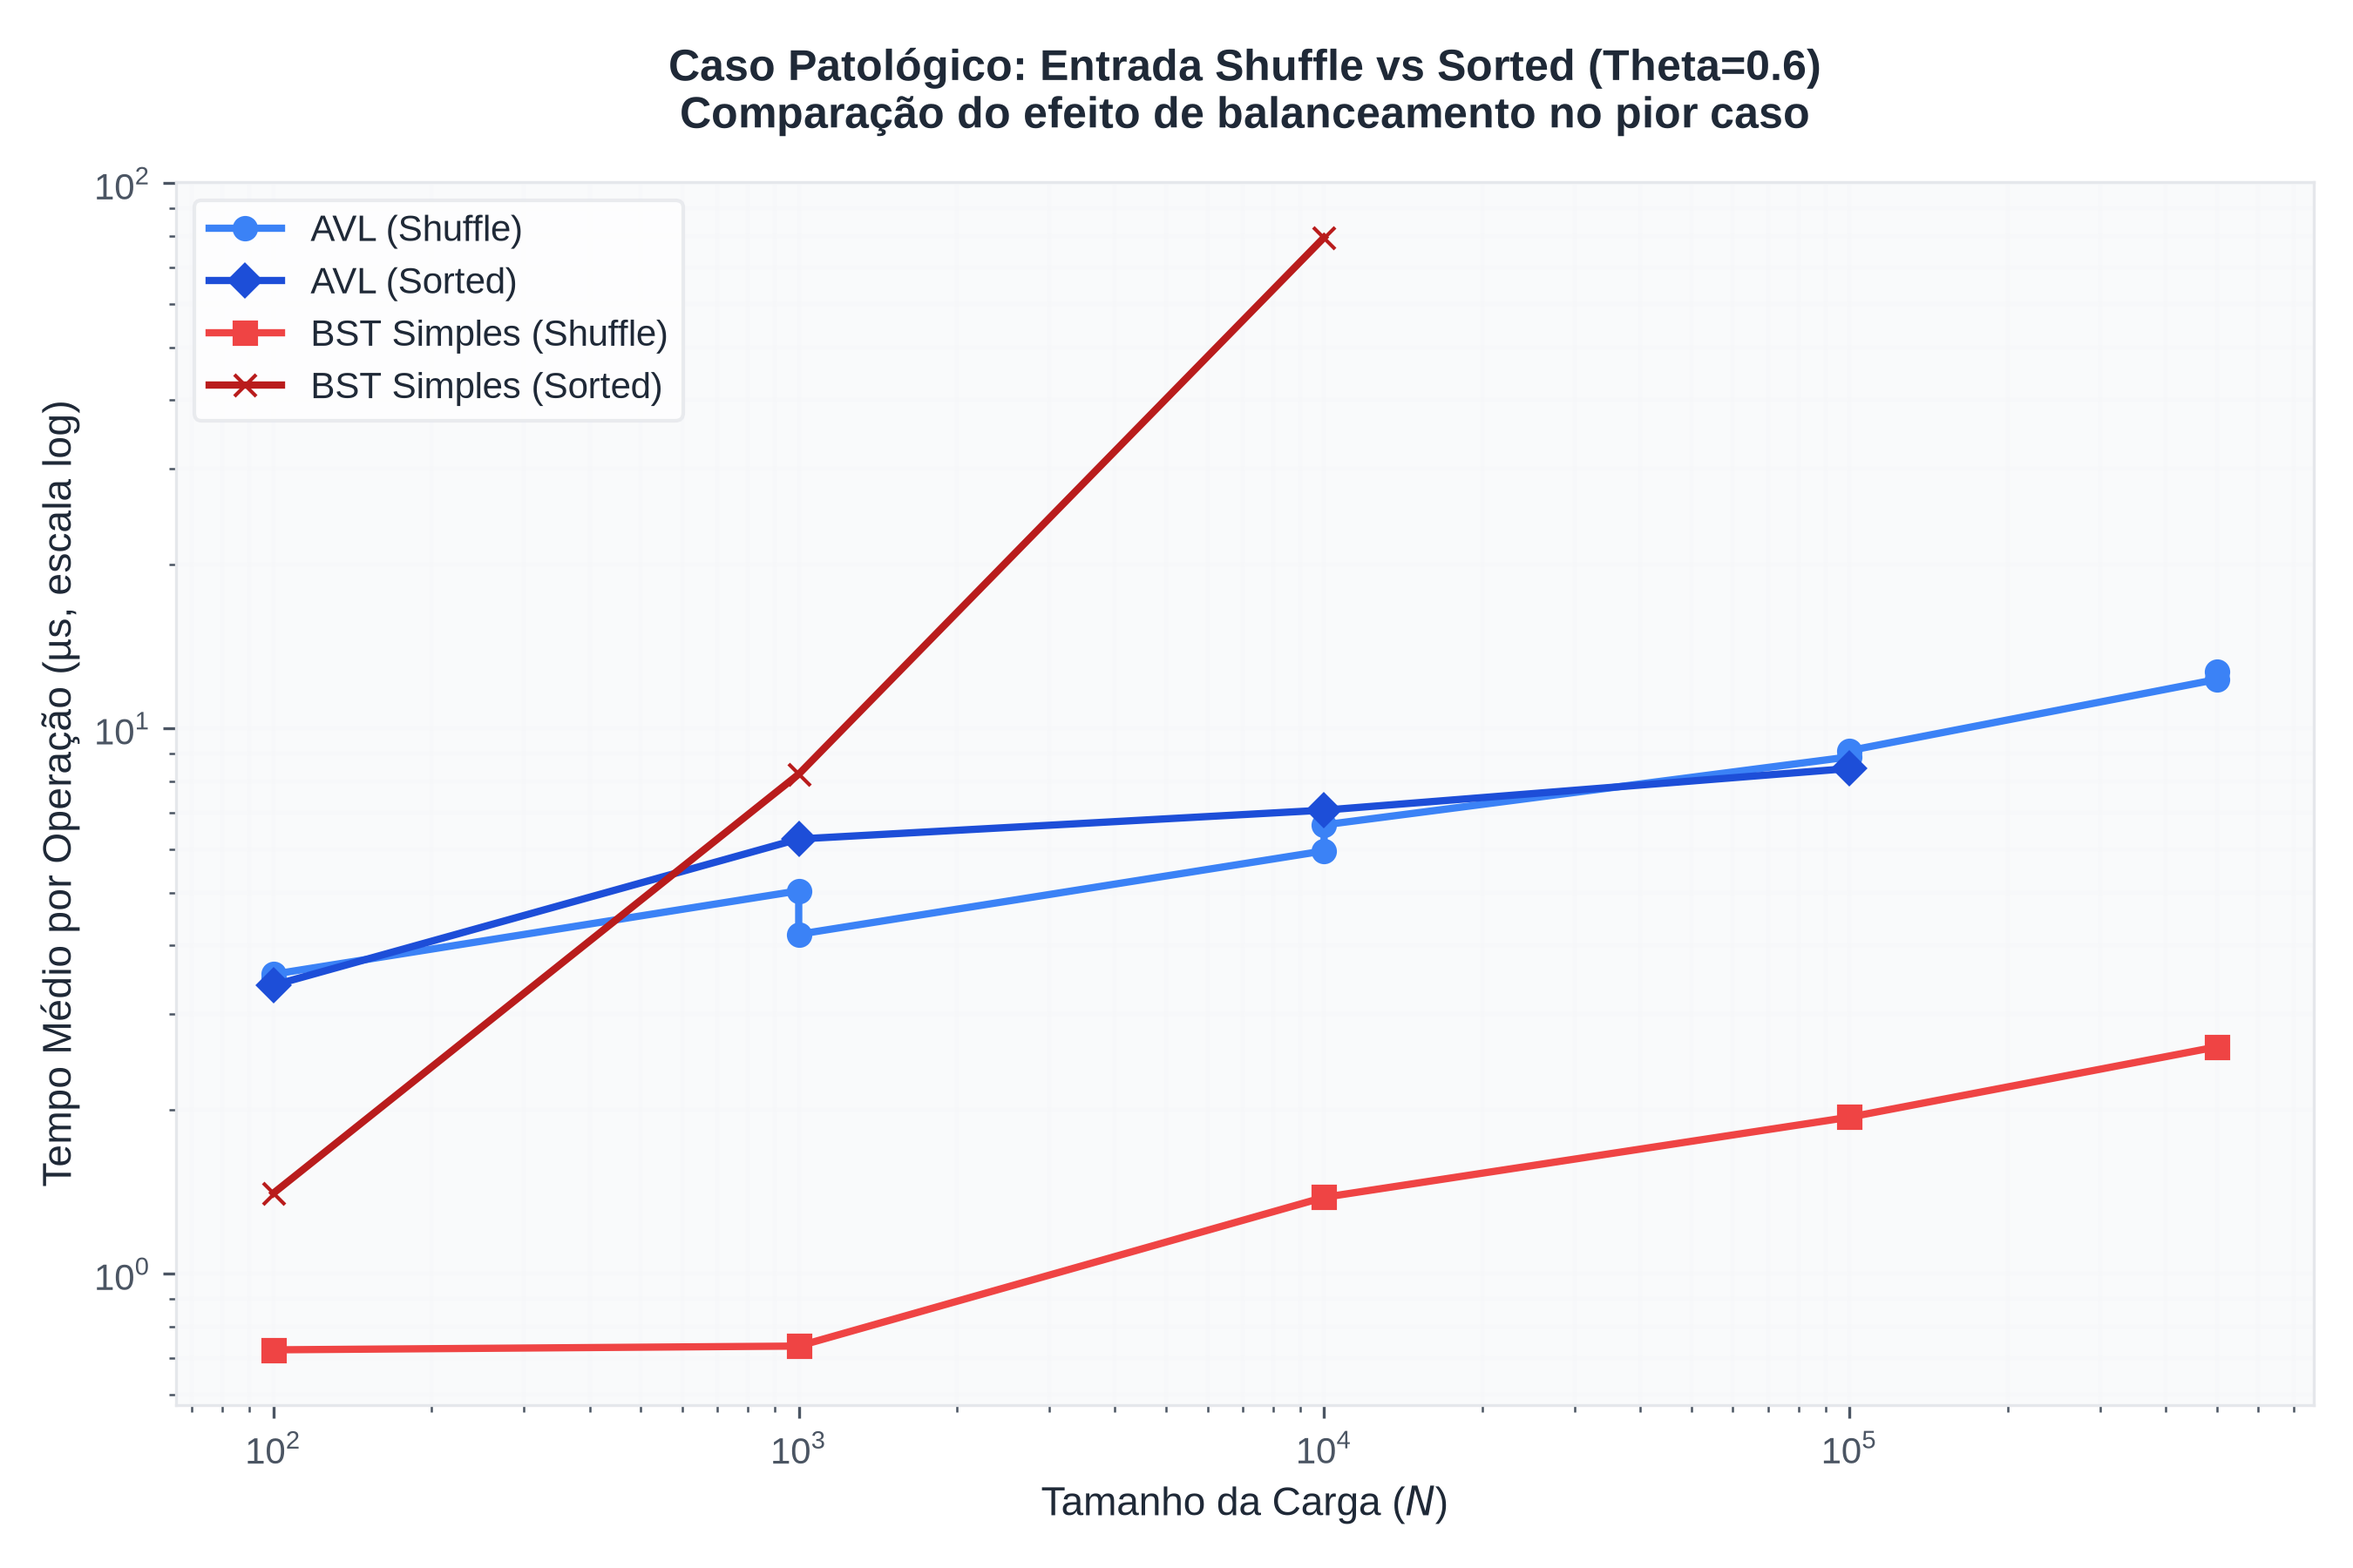
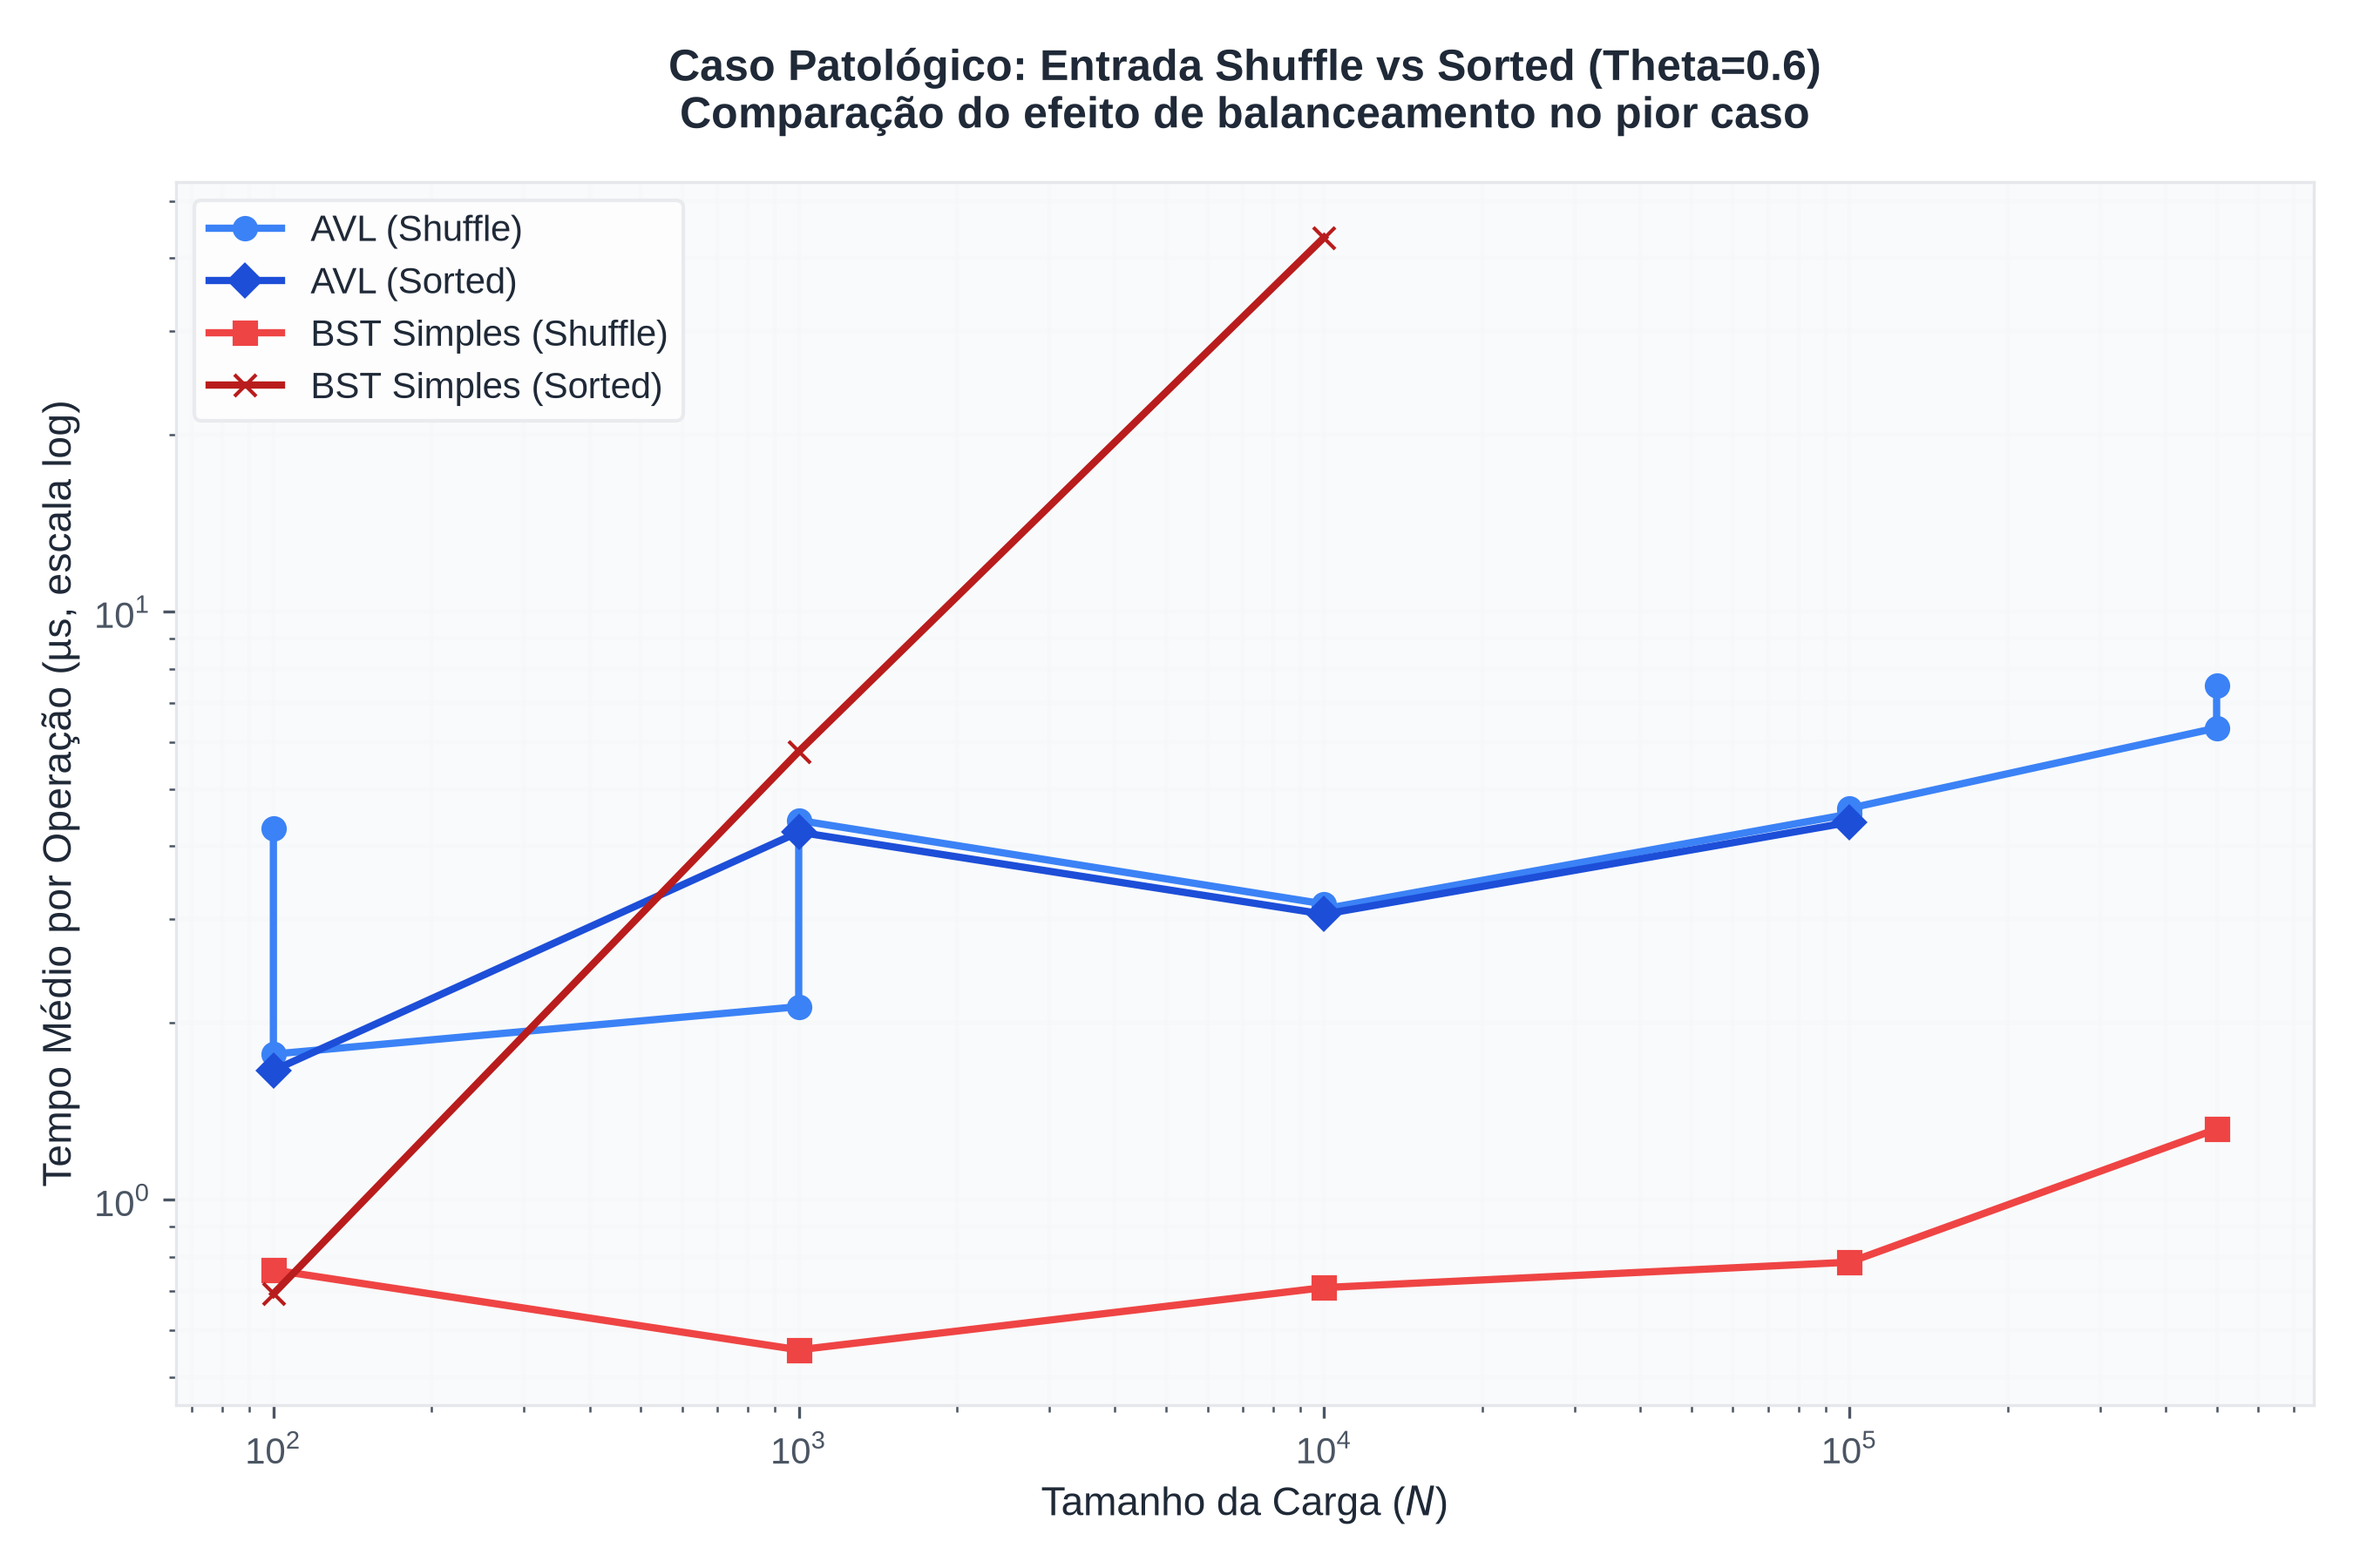
doc: update benchmark report and charts with new execution results

diff --git a/Report/relatorio.md b/Report/relatorio.md
@@ -27,25 +27,25 @@ A tabela abaixo apresenta os tempos médios de operação (em microssegundos, µ
 
 | Estrutura | Carga ($N$) | Tempo Médio (µs) | Mediana p50 (µs) | Percentil p99 (µs) |
 | :--- | :--- | :--- | :--- | :--- |
-| **AVL** | 100 | 3.47 | 3.83 | 6.80 |
-| **BST** | 100 | 1.23 | 1.09 | 5.94 |
-| **AVL** | 1.000 | 4.70 | 5.40 | 9.26 |
-| **BST** | 1.000 | 0.76 | 0.71 | 1.71 |
-| **AVL** | 10.000 | 8.02 | 8.13 | 22.91 |
-| **BST** | 10.000 | 1.53 | 1.23 | 3.45 |
-| **AVL** | 100.000 | 8.86 | 10.54 | 17.82 |
-| **BST** | 100.000 | 1.54 | 1.38 | 3.34 |
-| **AVL** | 500.000 | 12.31 | 14.24 | 27.81 |
-| **BST** | 500.000 | 2.65 | 2.31 | 6.28 |
+| **AVL** | 100 | 1.77 | 1.91 | 3.69 |
+| **BST** | 100 | 0.76 | 0.58 | 5.02 |
+| **AVL** | 1.000 | 2.13 | 2.45 | 4.80 |
+| **BST** | 1.000 | 0.56 | 0.50 | 1.46 |
+| **AVL** | 10.000 | 3.19 | 3.72 | 6.62 |
+| **BST** | 10.000 | 0.71 | 0.51 | 2.68 |
+| **AVL** | 100.000 | 4.63 | 5.53 | 9.69 |
+| **BST** | 100.000 | 0.78 | 0.69 | 1.59 |
+| **AVL** | 500.000 | 7.49 | 7.84 | 25.27 |
+| **BST** | 500.000 | 1.32 | 1.09 | 3.04 |
 
 #### Detalhamento por Operação ($N = 500.000$):
-- **AVL:** Inserção = 16.52 µs, Remoção = 15.73 µs, Busca = 2.68 µs
-- **BST:** Inserção = 2.88 µs, Remoção = 2.84 µs, Busca = 2.14 µs
+- **AVL:** Inserção = 9.96 µs, Remoção = 9.48 µs, Busca = 1.83 µs
+- **BST:** Inserção = 1.44 µs, Remoção = 1.41 µs, Busca = 1.05 µs
 
 ![Desempenho por Escala](scale_comparison.png)
 
 **Discussão Teoria vs. Prática:**
-Teoricamente, ambas as estruturas apresentam complexidade $O(\log N)$ para todas as operações quando as entradas estão distribuídas aleatoriamente. Contudo, na prática, a **BST Simples é significativamente mais rápida** (cerca de 4.5x a 5x mais rápida) no caso médio.
+Teoricamente, ambas as estruturas apresentam complexidade $O(\log N)$ para todas as operações quando as entradas estão distribuídas aleatoriamente. Contudo, na prática, a **BST Simples é significativamente mais rápida** (cerca de 5.5x a 6x mais rápida) no caso médio.
 Isso ocorre devido à diferença gritante na **constante multiplicativa**:
 1. A AVL precisa recalcular e atualizar a altura (`height`), tamanho da subárvore (`size`) e a soma acumulada (`sum`) para cada nó visitado durante o caminho de retorno da recursão.
 2. A AVL precisa realizar testes de fator de balanceamento e aplicar rotações (simples ou duplas), o que exige múltiplas atribuições de ponteiros adicionais.
@@ -58,13 +58,13 @@ Quando as chaves de entrada são fornecidas em ordem crescente (`sorted`), a BST
 
 | Estrutura | Carga ($N$) | Ordenação | Tempo Médio (µs) | Mediana p50 (µs) | Percentil p99 (µs) |
 | :--- | :--- | :--- | :--- | :--- | :--- |
-| **AVL** | 100 | sorted | 3.32 | 4.25 | 5.73 |
-| **BST** | 100 | sorted | 2.44 | 2.26 | 5.42 |
-| **AVL** | 1.000 | sorted | 6.39 | 7.96 | 10.94 |
-| **BST** | 1.000 | sorted | 14.03 | 9.79 | 67.12 |
-| **AVL** | 10.000 | sorted | 8.15 | 10.44 | 13.99 |
-| **BST** | 10.000 | sorted | 77.50 | 64.87 | 200.21 |
-| **AVL** | 100.000 | sorted | 8.55 | 10.31 | 17.80 |
+| **AVL** | 100 | sorted | 1.66 | 2.09 | 2.73 |
+| **BST** | 100 | sorted | 0.69 | 0.61 | 3.52 |
+| **AVL** | 1.000 | sorted | 4.22 | 4.70 | 10.32 |
+| **BST** | 1.000 | sorted | 5.79 | 5.67 | 13.67 |
+| **AVL** | 10.000 | sorted | 3.06 | 3.93 | 5.50 |
+| **BST** | 10.000 | sorted | 43.32 | 36.21 | 118.39 |
+| **AVL** | 100.000 | sorted | 4.39 | 5.19 | 10.74 |
 | **BST** | 100.000 | sorted | *Não Executado* | | |
 
 *Nota: O teste da BST ordenada em N=100.000 foi omitido pois o tempo total de execução seria proibitivo (complexidade quadrática total $O(N^2)$ em Python).*
@@ -74,8 +74,8 @@ Quando as chaves de entrada são fornecidas em ordem crescente (`sorted`), a BST
 **Ponto de Cruzamento (Crossover Point):**
 O ponto de cruzamento de desempenho ocorre logo após $N = 100$.
 - Para $N \le 100$, a BST ainda é ligeiramente mais rápida devido ao tamanho reduzido da árvore.
-- Para $N = 1.000$, a BST com chaves ordenadas já é 2.2x mais lenta do que a AVL.
-- Para $N = 10.000$, a BST ordenada torna-se **9.5x mais lenta** que a AVL.
+- Para $N = 1.000$, a BST com chaves ordenadas já é 1.37x mais lenta do que a AVL.
+- Para $N = 10.000$, a BST ordenada torna-se **14.1x mais lenta** que a AVL.
 
 **Explicação Teórica:**
 Chaves ordenadas forçam a BST a sempre inserir novos nós à direita. A estrutura degenera em uma lista simplesmente encadeada de altura $N$. A busca, inserção e remoção passam a ter complexidade de pior caso linear $O(N)$. Como a carga executa $N$ operações, o custo cumulativo total é $O(N^2)$, explicando o crescimento acentuado do tempo de execução.
@@ -88,15 +88,15 @@ Analisamos a sensibilidade da Árvore AVL a diferentes níveis de viés Zipfiano
 
 | Parâmetro $\theta$ | Tipo de Acesso | Tempo Médio Geral (µs) | Tempo Médio Busca S (µs) | Mediana Busca S (µs) |
 | :--- | :--- | :--- | :--- | :--- |
-| **0.00** | Uniforme | 12.64 | 2.86 | 2.75 |
-| **0.60** | Moderadamente Enviesado | 12.31 | 2.68 | 2.61 |
-| **0.99** | Padrão YCSB (Alto Viés) | 12.56 | 2.72 | 2.61 |
-| **1.20** | Muito Enviesado | 12.34 | 2.42 | 2.15 |
+| **0.00** | Uniforme | 7.08 | 1.69 | 1.50 |
+| **0.60** | Moderadamente Enviesado | 7.49 | 1.83 | 1.61 |
+| **0.99** | Padrão YCSB (Alto Viés) | 7.45 | 1.57 | 1.44 |
+| **1.20** | Muito Enviesado | 7.97 | 1.58 | 1.41 |
 
 ![Sensibilidade ao Enviesamento (Zipfian Theta)](theta_sensitivity.png)
 
 **Discussão sobre Localidade de Cache e Rotações:**
-1. **Localidade de Cache:** À medida que $\theta$ cresce (de 0.0 para 1.2), os acessos concentram-se cada vez mais em um conjunto pequeno de chaves quentes. Isso resulta em uma melhora perceptível no tempo médio da operação de busca (`search` / operacão `S`), reduzindo de **2.86 µs** ($\theta = 0.0$) para **2.42 µs** ($\theta = 1.2$). Esse ganho empírico deve-se à maior taxa de acertos nos caches de hardware da CPU (L1/L2/L3) para os nós mais superiores e frequentes da árvore.
+1. **Localidade de Cache:** À medida que $\theta$ cresce (de 0.0 para 1.2), os acessos concentram-se cada vez mais em um conjunto pequeno de chaves quentes. Isso resulta em uma melhora perceptível no tempo médio da operação de busca (`search` / operacão `S`), reduzindo de **1.69 µs** ($\theta = 0.0$) para **1.58 µs** ($\theta = 1.2$). Esse ganho empírico deve-se à maior taxa de acertos nos caches de hardware da CPU (L1/L2/L3) para os nós mais superiores e frequentes da árvore.
 2. **Rebalanceamento:** Apesar do alto viés nas buscas, a proporção de inserções e remoções novas continua alta (60% e 10%). Como novas chaves ainda alteram a estrutura, o custo de rebalanceamento e recomputação de somas acumuladas se mantém, explicando o motivo do tempo médio global (`all`) cair de forma muito mais sutil.
 
 ---
